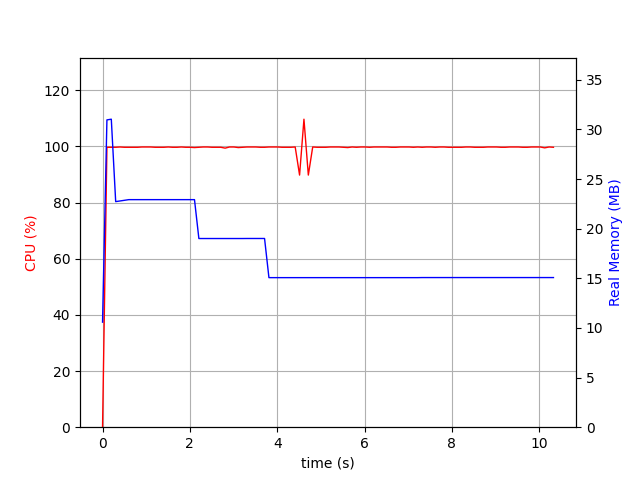
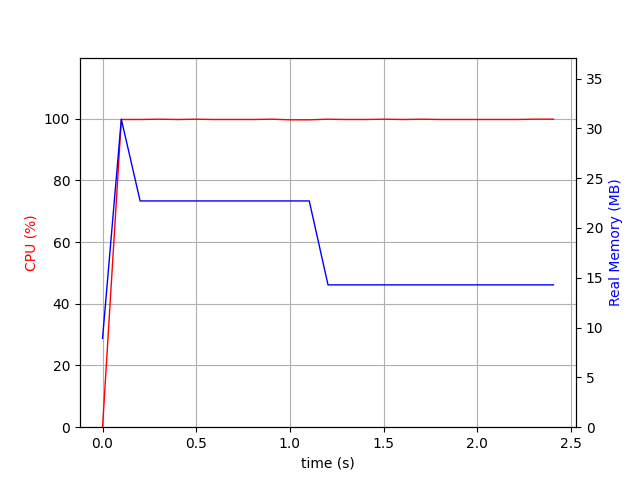
feat: enhance BloscStateBackend with quantum gate operations and add integration tests
This commit introduces several new functions in the BloscStateBackend class to support quantum gate operations, including Hadamard, Pauli-X, Controlled Not, and Controlled Phase Shift. It implements amplitude caching for improved performance during gate applications. Additionally, a new integration test is added to validate the parity of gate applications between different storage strategies, ensuring consistent behavior across implementations. Updates to profiling logs reflect changes in memory usage during these operations.

diff --git a/src/tmfqs/storage/BloscStateBackend.cpp b/src/tmfqs/storage/BloscStateBackend.cpp
@@ -69,6 +69,78 @@ int32_t checkedElemsBytesToI32(size_t numElems, const char *context) {
 	return checkedBytesToI32(numElems * sizeof(double), context);
 }
 
+constexpr double kGateMatchTolerance = 1e-12;
+
+bool approxEqual(double a, double b, double tol = kGateMatchTolerance) {
+	return std::abs(a - b) <= tol;
+}
+
+bool matchesAmplitude(const Amplitude &amp, double real, double imag = 0.0) {
+	return approxEqual(amp.real, real) && approxEqual(amp.imag, imag);
+}
+
+bool isZeroAmplitude(const Amplitude &amp) {
+	return matchesAmplitude(amp, 0.0, 0.0);
+}
+
+bool matchesHadamardGate(const QuantumGate &gate) {
+	if(gate.dimension() != 2u) return false;
+	const double invSqrt2 = 1.0 / std::sqrt(2.0);
+	return matchesAmplitude(gate[0][0], invSqrt2) &&
+	       matchesAmplitude(gate[0][1], invSqrt2) &&
+	       matchesAmplitude(gate[1][0], invSqrt2) &&
+	       matchesAmplitude(gate[1][1], -invSqrt2);
+}
+
+bool matchesPauliXGate(const QuantumGate &gate) {
+	if(gate.dimension() != 2u) return false;
+	return isZeroAmplitude(gate[0][0]) &&
+	       matchesAmplitude(gate[0][1], 1.0) &&
+	       matchesAmplitude(gate[1][0], 1.0) &&
+	       isZeroAmplitude(gate[1][1]);
+}
+
+bool matchesControlledNotGate(const QuantumGate &gate) {
+	if(gate.dimension() != 4u) return false;
+	for(unsigned int row = 0; row < 4u; ++row) {
+		for(unsigned int col = 0; col < 4u; ++col) {
+			const bool isOne =
+				(row == 0u && col == 0u) ||
+				(row == 1u && col == 1u) ||
+				(row == 2u && col == 3u) ||
+				(row == 3u && col == 2u);
+			if(isOne) {
+				if(!matchesAmplitude(gate[row][col], 1.0)) return false;
+			} else if(!isZeroAmplitude(gate[row][col])) {
+				return false;
+			}
+		}
+	}
+	return true;
+}
+
+bool matchControlledPhaseShiftGate(const QuantumGate &gate, double &thetaOut) {
+	if(gate.dimension() != 4u) return false;
+	for(unsigned int row = 0; row < 4u; ++row) {
+		for(unsigned int col = 0; col < 4u; ++col) {
+			const bool isDiag = (row == col);
+			if(!isDiag && !isZeroAmplitude(gate[row][col])) {
+				return false;
+			}
+		}
+	}
+	if(!matchesAmplitude(gate[0][0], 1.0) ||
+	   !matchesAmplitude(gate[1][1], 1.0) ||
+	   !matchesAmplitude(gate[2][2], 1.0)) {
+		return false;
+	}
+	const Amplitude phase = gate[3][3];
+	const double magnitudeSq = phase.real * phase.real + phase.imag * phase.imag;
+	if(!approxEqual(magnitudeSq, 1.0, 1e-10)) return false;
+	thetaOut = std::atan2(phase.imag, phase.real);
+	return true;
+}
+
 void validateBloscConfig(const RegisterConfig &cfg) {
 	if(cfg.blosc.chunkStates == 0) {
 		throw std::invalid_argument("BloscStateBackend: chunkStates must be >= 1");
@@ -104,6 +176,11 @@ class BloscStateBackend : public IStateBackend {
 				int64_t chunkIndex = 0;
 				size_t elemOffset = 0;
 				size_t chunkElems = 0;
+			};
+
+			struct CacheAmplitudeRef {
+				CacheSlot *slot = nullptr;
+				double *amp = nullptr; // points to {real, imag}
 			};
 
 			unsigned int numQubits_ = 0;
@@ -361,6 +438,13 @@ class BloscStateBackend : public IStateBackend {
 				slot.dirty = false;
 				slot.age = cacheAgeCounter_++;
 			return static_cast<int>(evict);
+		}
+
+		CacheAmplitudeRef acquireCacheAmplitude(StateIndex state, size_t statesPerChunk) {
+			const int64_t chunkIndex = static_cast<int64_t>(state / statesPerChunk);
+			const size_t elemOffset = static_cast<size_t>(state % statesPerChunk) * 2u;
+			CacheSlot &slot = gateCache_[static_cast<size_t>(getSlot(chunkIndex))];
+			return {&slot, slot.buffer.data() + elemOffset};
 		}
 
 		void swap(BloscStateBackend &other) noexcept {
@@ -645,26 +729,111 @@ class BloscStateBackend : public IStateBackend {
 
 		void applyHadamard(QubitIndex qubit) override {
 			validateSingleQubitOperation(qubit, "Hadamard");
-			applyGate(QuantumGate::Hadamard(), QubitList{qubit});
+			const unsigned int targetMask = qubitMaskFromMsbIndex(qubit, numQubits_);
+			const double invSqrt2 = 1.0 / std::sqrt(2.0);
+			ensureGateCacheStorage();
+			const size_t statesPerChunk = chunkStates();
+
+			forEachStatePairByMask(numStates_, targetMask, [&](unsigned int state0, unsigned int state1) {
+				CacheAmplitudeRef a0Ref = acquireCacheAmplitude(state0, statesPerChunk);
+				CacheAmplitudeRef a1Ref = acquireCacheAmplitude(state1, statesPerChunk);
+
+				const double aReal = a0Ref.amp[0];
+				const double aImag = a0Ref.amp[1];
+				const double bReal = a1Ref.amp[0];
+				const double bImag = a1Ref.amp[1];
+				if(aReal == 0.0 && aImag == 0.0 && bReal == 0.0 && bImag == 0.0) return;
+
+				a0Ref.amp[0] = (aReal + bReal) * invSqrt2;
+				a0Ref.amp[1] = (aImag + bImag) * invSqrt2;
+				a1Ref.amp[0] = (aReal - bReal) * invSqrt2;
+				a1Ref.amp[1] = (aImag - bImag) * invSqrt2;
+				a0Ref.slot->dirty = true;
+				a1Ref.slot->dirty = true;
+			});
+			flushAllSlots();
 		}
 
 		void applyPauliX(QubitIndex qubit) override {
 			validateSingleQubitOperation(qubit, "PauliX");
-			applyGate(QuantumGate::PauliX(), QubitList{qubit});
+			const unsigned int targetMask = qubitMaskFromMsbIndex(qubit, numQubits_);
+			ensureGateCacheStorage();
+			const size_t statesPerChunk = chunkStates();
+
+			forEachStatePairByMask(numStates_, targetMask, [&](unsigned int state0, unsigned int state1) {
+				CacheAmplitudeRef a0Ref = acquireCacheAmplitude(state0, statesPerChunk);
+				CacheAmplitudeRef a1Ref = acquireCacheAmplitude(state1, statesPerChunk);
+				std::swap(a0Ref.amp[0], a1Ref.amp[0]);
+				std::swap(a0Ref.amp[1], a1Ref.amp[1]);
+				a0Ref.slot->dirty = true;
+				a1Ref.slot->dirty = true;
+			});
+			flushAllSlots();
 		}
 
 		void applyControlledPhaseShift(QubitIndex controlQubit, QubitIndex targetQubit, double theta) override {
 			validateTwoQubitOperation(controlQubit, targetQubit, "controlled phase shift");
-			applyGate(QuantumGate::ControlledPhaseShift(theta), QubitList{controlQubit, targetQubit});
+			const unsigned int controlMask = qubitMaskFromMsbIndex(controlQubit, numQubits_);
+			const unsigned int targetMask = qubitMaskFromMsbIndex(targetQubit, numQubits_);
+			const double phaseReal = std::cos(theta);
+			const double phaseImag = std::sin(theta);
+			ensureGateCacheStorage();
+			const size_t statesPerChunk = chunkStates();
+
+			forEachStatePairByMask(numStates_, targetMask, [&](unsigned int, unsigned int state1) {
+				if((state1 & controlMask) == 0u) return;
+				CacheAmplitudeRef a1Ref = acquireCacheAmplitude(state1, statesPerChunk);
+				const double real = a1Ref.amp[0];
+				const double imag = a1Ref.amp[1];
+				if(real == 0.0 && imag == 0.0) return;
+				a1Ref.amp[0] = phaseReal * real - phaseImag * imag;
+				a1Ref.amp[1] = phaseReal * imag + phaseImag * real;
+				a1Ref.slot->dirty = true;
+			});
+			flushAllSlots();
 		}
 
 		void applyControlledNot(QubitIndex controlQubit, QubitIndex targetQubit) override {
 			validateTwoQubitOperation(controlQubit, targetQubit, "controlled not");
-			applyGate(QuantumGate::ControlledNot(), QubitList{controlQubit, targetQubit});
+			const unsigned int controlMask = qubitMaskFromMsbIndex(controlQubit, numQubits_);
+			const unsigned int targetMask = qubitMaskFromMsbIndex(targetQubit, numQubits_);
+			ensureGateCacheStorage();
+			const size_t statesPerChunk = chunkStates();
+
+			forEachStatePairByMask(numStates_, targetMask, [&](unsigned int state0, unsigned int state1) {
+				if((state0 & controlMask) == 0u) return;
+				CacheAmplitudeRef a0Ref = acquireCacheAmplitude(state0, statesPerChunk);
+				CacheAmplitudeRef a1Ref = acquireCacheAmplitude(state1, statesPerChunk);
+				std::swap(a0Ref.amp[0], a1Ref.amp[0]);
+				std::swap(a0Ref.amp[1], a1Ref.amp[1]);
+				a0Ref.slot->dirty = true;
+				a1Ref.slot->dirty = true;
+			});
+			flushAllSlots();
 		}
 
 			void applyGate(const QuantumGate &gate, const QubitList &qubits) override {
 				validateGateApplicationInputs(gate, qubits);
+				if(qubits.size() == 1u) {
+					if(matchesHadamardGate(gate)) {
+						applyHadamard(qubits[0]);
+						return;
+					}
+					if(matchesPauliXGate(gate)) {
+						applyPauliX(qubits[0]);
+						return;
+					}
+				} else if(qubits.size() == 2u) {
+					if(matchesControlledNotGate(gate)) {
+						applyControlledNot(qubits[0], qubits[1]);
+						return;
+					}
+					double theta = 0.0;
+					if(matchControlledPhaseShiftGate(gate, theta)) {
+						applyControlledPhaseShift(qubits[0], qubits[1], theta);
+						return;
+					}
+				}
 				ensureGateCacheStorage();
 
 				const size_t statesPerChunk = chunkStates();

diff --git a/tests/integration/test_bugfixes.cpp b/tests/integration/test_bugfixes.cpp
@@ -339,6 +339,48 @@ void testUniformSuperpositionValidation() {
 	assert(outOfRangeThrew);
 }
 
+void testApplyGateBuiltinDispatchParity() {
+	using namespace tmfqs;
+	std::cout << "=== applyGate built-in parity ===\n";
+	if(!isStrategyAvailable(StorageStrategyKind::Blosc)) {
+		std::cout << "Blosc backend unavailable in this build, skipping applyGate built-in parity test.\n";
+		return;
+	}
+
+	RegisterConfig denseCfg;
+	denseCfg.strategy = StorageStrategyKind::Dense;
+	RegisterConfig bloscCfg;
+	bloscCfg.strategy = StorageStrategyKind::Blosc;
+	bloscCfg.blosc.chunkStates = 8;
+	bloscCfg.blosc.gateCacheSlots = 4;
+
+	QuantumRegister denseReg(4, 0, denseCfg);
+	QuantumRegister bloscReg(4, 0, bloscCfg);
+
+	const QuantumGate hadamard = QuantumGate::Hadamard();
+	const QuantumGate pauliX = QuantumGate::PauliX();
+	const QuantumGate cnot = QuantumGate::ControlledNot();
+	const QuantumGate cps = QuantumGate::ControlledPhaseShift(kPi / 7.0);
+
+	denseReg.applyGate(hadamard, QubitList{0});
+	denseReg.applyGate(pauliX, QubitList{3});
+	denseReg.applyGate(cnot, QubitList{0, 2});
+	denseReg.applyGate(cps, QubitList{2, 1});
+
+	bloscReg.applyGate(hadamard, QubitList{0});
+	bloscReg.applyGate(pauliX, QubitList{3});
+	bloscReg.applyGate(cnot, QubitList{0, 2});
+	bloscReg.applyGate(cps, QubitList{2, 1});
+
+	for(unsigned int s = 0; s < denseReg.stateCount(); ++s) {
+		const Amplitude a = denseReg.amplitude(s);
+		const Amplitude b = bloscReg.amplitude(s);
+		assert(approxEqual(a.real, b.real, 1e-9));
+		assert(approxEqual(a.imag, b.imag, 1e-9));
+	}
+	assert(approxEqual(denseReg.totalProbability(), bloscReg.totalProbability(), 1e-9));
+}
+
 } // namespace
 
 int main() {
@@ -359,6 +401,7 @@ int main() {
 	testDenseVsBloscParity();
 	testPublicGateValidation();
 	testApplyGateValidation();
+	testApplyGateBuiltinDispatchParity();
 	testUniformSuperpositionValidation();
 
 	std::cout << "All integration tests passed.\n";
